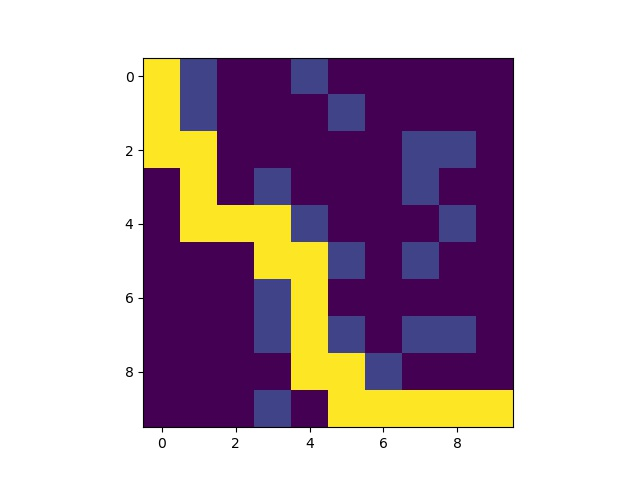
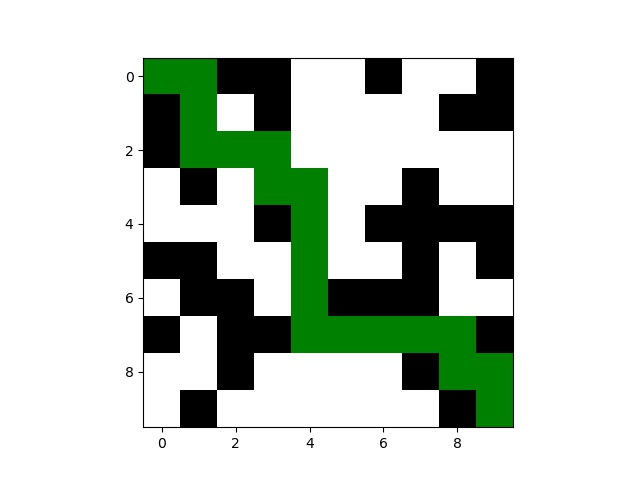
backwards and forwards test

diff --git a/repeatedclone.py b/repeatedclone.py
@@ -1,0 +1,102 @@
+import repeatedBackwardsAStar as AStar
+import numpy as np
+def repeatedAStar(knowledgeMaze, trueMaze, beginningCoordinates, endingCoordinates, sizeOfGrid):
+    plannedPaths = []
+    knowledgeMazes = []
+
+    currentKnowledgeMaze = knowledgeMaze
+    beginning = beginningCoordinates
+    ending = endingCoordinates
+    while True:
+        #planning
+        knowledgeMazes.append(currentKnowledgeMaze)
+        currentPath = AStar.repeatedBackwardsAStar(currentKnowledgeMaze, beginning, ending)
+        print("current path")
+        print(currentPath)
+        plannedPaths.append(currentPath)
+        if currentPath == []:
+            return [plannedPaths, knowledgeMazes]
+        #execute
+        #step through planned path
+        #if current node is actually an obstacle, stop there and save that coordinate as the beginning coordinate for next iteration
+        #if current node is the end node, stop there and return all needed info
+        #otherwise, look at neighbors of the current node and see if they are obstacles in true maze. if so, plot these obstacles in the knowledge maze and insert updated knowledge maze
+        currentKnowledgeMaze = np.copy(knowledgeMazes[-1])
+
+        for index, w in enumerate(currentPath):
+            if trueMaze[w[0]][w[1]] == 1:
+                #update beginning to coordinates right before obstacle bump
+                beginning = currentPath[index-1]
+                break
+            if w == endingCoordinates: #if the path executed actually makes it to the end, we're done
+                return [plannedPaths,knowledgeMazes]
+            neighbors = [] #generate all neighbors
+            currentCoordinate = currentPath[index]
+            neighbors.append(generateLeftCoordinates(currentCoordinate))
+            neighbors.append(generateRightCoordinates(currentCoordinate))
+            neighbors.append(generateUpCoordinates(currentCoordinate))
+            neighbors.append(generateDownCoordinates(currentCoordinate))
+            #check if each neighbor is valid and is an obstacle --> if it is, update the knowledge maze
+            for neighbor in neighbors:
+                if isValidCoordinate(neighbor, sizeOfGrid) and trueMaze[neighbor[0]][neighbor[1]] == 1:
+                    currentKnowledgeMaze[neighbor[0]][neighbor[1]] = 1 #without assigning 1, it is an infinite loop?
+            
+
+
+
+def generateLeftCoordinates(currentCoordinates):
+    return (currentCoordinates[0]-1, currentCoordinates[1])
+def generateRightCoordinates(currentCoordinates):
+    return (currentCoordinates[0]+1, currentCoordinates[1])
+def generateUpCoordinates(currentCoordinates):
+    return (currentCoordinates[0], currentCoordinates[1]+1)
+def generateDownCoordinates(currentCoordinates):
+    return (currentCoordinates[0], currentCoordinates[1]-1)
+
+
+def isValidCoordinate(currentCoordinates, sizeOfGrid):
+    return 0<=currentCoordinates[0]<=sizeOfGrid-1 and 0<=currentCoordinates[1]<=sizeOfGrid-1
+
+
+if __name__ == "__main__":
+    import random 
+    import matplotlib.pyplot as plt
+
+    sizeOfGrid = 10
+    #create actual maze and knowledge maze
+    trueMaze = np.zeros(shape = (sizeOfGrid,sizeOfGrid)).astype(int)
+    knowledgeMaze = np.zeros(shape = (sizeOfGrid,sizeOfGrid)).astype(int)
+    #populate actual maze
+    for x in np.nditer(trueMaze, op_flags=['readwrite']):
+        if random.random() >= 0.7:
+            x[...] = 1
+        else:
+            x[...] = 0
+    trueMaze[0,0] = 3
+    trueMaze[sizeOfGrid-1,sizeOfGrid-1] = 4
+    knowledgeMaze[0,0] = 3
+    knowledgeMaze[sizeOfGrid-1,sizeOfGrid-1] = 4
+
+    #give knowledge maze initial knowledge
+    if trueMaze[1,0] == 1:
+        knowledgeMaze[1,0] = 1
+    if trueMaze[0,1] == 1:
+        knowledgeMaze[0,1] = 1
+
+    print("true maze: ")
+    print(trueMaze)
+
+    path = repeatedAStar(knowledgeMaze, trueMaze, (sizeOfGrid-1,sizeOfGrid-1), (0,0), sizeOfGrid) 
+    print("answer: ")
+    print(path)
+
+    plt.imshow(trueMaze)
+    plt.show()
+
+    # for coordinate in path:
+    #     trueMaze[coordinate[0], coordinate[1]] = 5
+    
+    # plt.imshow(trueMaze)
+    # plt.show()
+
+    print(trueMaze)

diff --git a/repeatedBackwardsAStar.py b/repeatedBackwardsAStar.py
@@ -4,6 +4,7 @@ import random
 import heapq
 import Node
 import matplotlib.pyplot as plt
+from matplotlib import colors
 
 
 def repeatedBackwardsAStar(maze , start, end):
@@ -27,7 +28,7 @@ def repeatedBackwardsAStar(maze , start, end):
             elif neighbor not in closedList and neighbor in openList:
                 current_node = get_node(openList, neighbor) 
 
-                if current_node.fvalue > cursor.gvalue + 1 + heuristic(neighbor, end):
+                if current_node.fvalue > (cursor.gvalue + 1 + heuristic(neighbor, end)):
                     current_node.gvalue = cursor.gvalue + 1
                     current_node.hvalue = heuristic(neighbor, end)
                     current_node.fvalue = current_node.gvalue + current_node.hvalue
@@ -79,7 +80,7 @@ if __name__ == "__main__":
     maze = np.zeros(shape = (10,10)).astype(int)
     unknown = np.zeros(shape = (10,10)).astype(int)
     for x in np.nditer(maze, op_flags=['readwrite']):
-        if random.random() >= 0.8:
+        if random.random() >= 0.7:
             x[...] = 1
         else:
             x[...] = 0
@@ -99,7 +100,11 @@ if __name__ == "__main__":
 
     print(plannedPath)
 
-    img = plt.imshow(maze)
+    cmap = colors.ListedColormap(['white', 'black', 'yellow', 'red', 'green'])
+    bounds=[0,1,2,3,4,5]
+    norm = colors.BoundaryNorm(bounds, cmap.N)
+
+    img = plt.imshow(maze, cmap=cmap, norm=norm)
     plt.savefig("reg.jpg")
     plt.show()
 
@@ -107,7 +112,7 @@ if __name__ == "__main__":
     for coordinate in plannedPath:
         maze[coordinate[0], coordinate[1]] = 5
     
-    img2 = plt.imshow(maze)
+    img2 = plt.imshow(maze, cmap=cmap, norm = norm)
     plt.savefig("path.jpg")
     plt.show()
 

diff --git a/fasttrajectoryplanning.py b/fasttrajectoryplanning.py
@@ -4,6 +4,8 @@ import repeatedBackwardsAStar
 import adaptiveAStar
 import random 
 import matplotlib.pyplot as plt
+from matplotlib import colors
+
 
 np.set_printoptions(threshold=np.inf)
 
@@ -17,6 +19,9 @@ for x in np.nditer(trueMaze, op_flags=['readwrite']):
         x[...] = 1
     else:
         x[...] = 0
+
+# trueMaze[0,1] = 1
+# trueMaze[1,0] = 1
 trueMaze[0,0] = 3
 trueMaze[sizeOfGrid-1,sizeOfGrid-1] = 4
 knowledgeMaze[0,0] = 3
@@ -33,13 +38,24 @@ np.savetxt('test.txt', trueMaze, delimiter=',', fmt='%.0f')
 print("true maze: ")
 print(trueMaze)
 
-path = repeatedAStar.repeatedAStar(knowledgeMaze, trueMaze, (0,0), (sizeOfGrid-1,sizeOfGrid-1), sizeOfGrid) 
+# path = repeatedAStar.repeatedAStar(knowledgeMaze, trueMaze, (0,0), (sizeOfGrid-1,sizeOfGrid-1), sizeOfGrid) 
+path = repeatedAStar.repeatedAStar(knowledgeMaze, trueMaze, (sizeOfGrid-1, sizeOfGrid-1), (0,0), sizeOfGrid)
 print("answer: ")
+# if path[0] == [[]]:
+#     print("no path")
+# else:
+#     print(path)
+
 print(path)
 #path2 = repeatedBackwardsAStar.repeatedBackwardsAStar(knowledgeMaze, (0,0), (49,40))
 #path3 = adaptiveAStar.adpativeAStar(knowledgeMaze, (0,0), (49,49))
-#plt.imshow(trueMaze)
-#lt.show()
+
+cmap = colors.ListedColormap(['white', 'black', 'yellow', 'red', 'green'])
+bounds=[0,1,2,3,4,5]
+norm = colors.BoundaryNorm(bounds, cmap.N)
+
+plt.imshow(trueMaze, cmap=cmap, norm=norm)
+plt.show()
 
 print(trueMaze)
 
